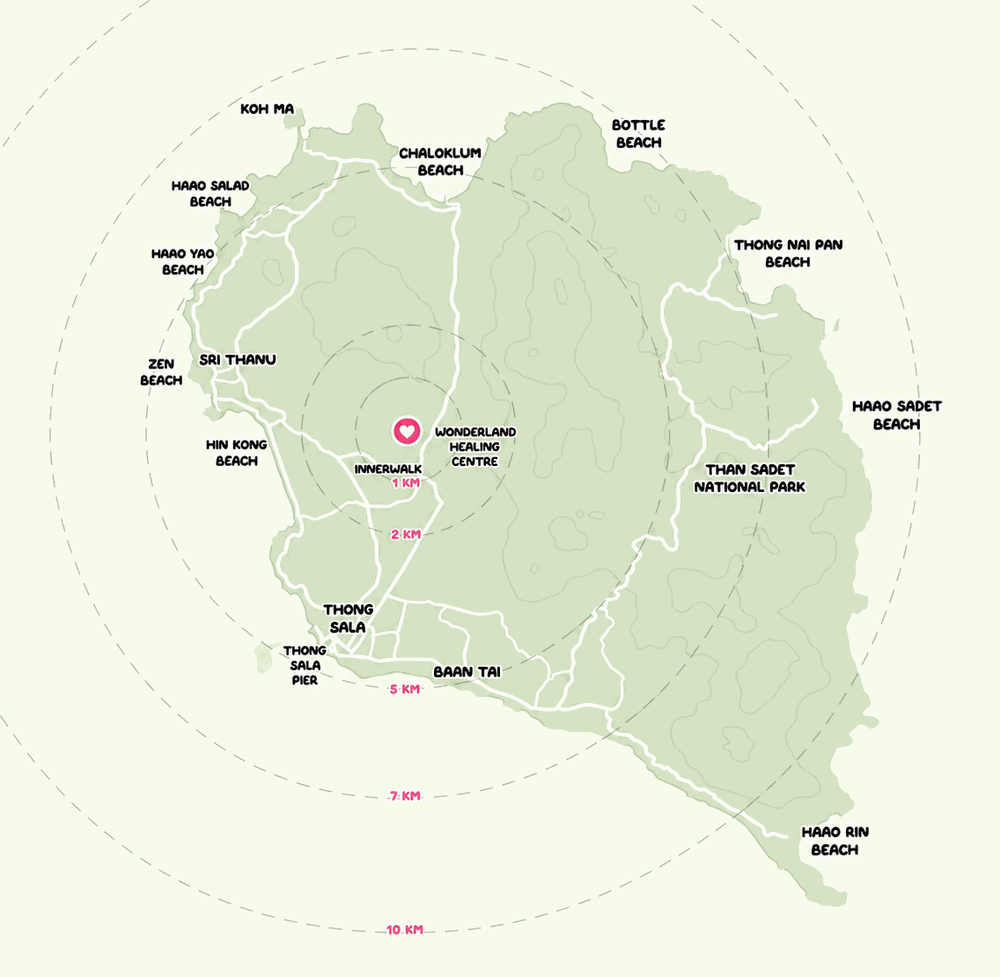
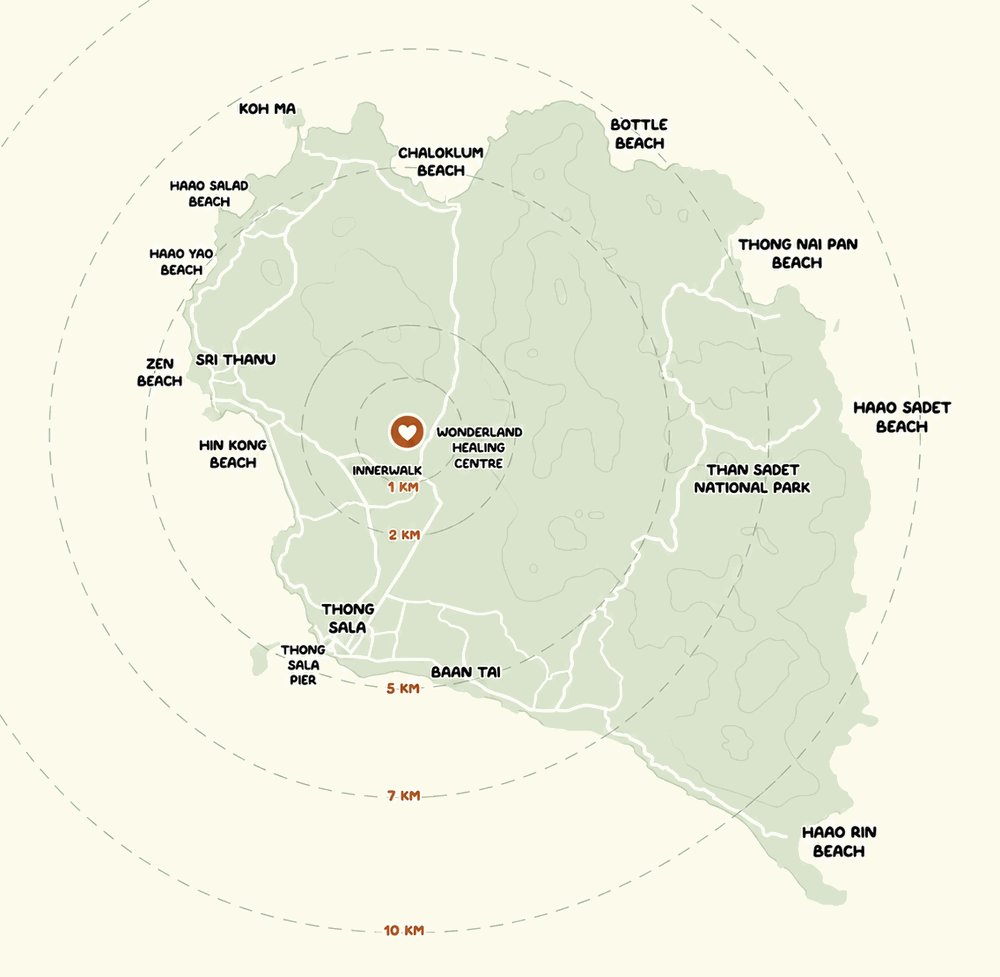
Serene Mountain: brand-coloured map, distances as an accordion, gallery to 12
- Swaps in the recoloured map (terracotta accents, cream ground that
  matches the page). Title cropped again, same line as before.
- Distances return as a collapsed accordion under the map. Rows stay in
  the rendered DOM so engines still read them; compact row spacing so it
  costs almost no height when open.
- Gallery 9 -> 12, which keeps the 3-wide grid square. Uses the tropical
  grounds photo the map displaced, plus the terrace-evening and
  kitchen-dining shots that were sitting unused in the repo.

Claude-Session: https://claude.ai/code/session_01PHDiKk9175h8mHNze8gqbZ

diff --git a/public/serene-mountain/index.html b/public/serene-mountain/index.html
@@ -164,6 +164,17 @@ p+p{margin-top:20px}
 .tbl-wrap{overflow-x:auto}
 .tbl-cap{font-size:14px;color:var(--moss);font-style:italic;margin-top:14px}
 .mapimg{border:1px solid var(--line)}
+/* distances: collapsed by default, but the rows stay in the DOM so engines read them */
+.dist{margin-top:18px;border-top:1px solid var(--line);border-bottom:1px solid var(--line)}
+.dist summary{cursor:pointer;list-style:none;display:flex;justify-content:space-between;align-items:center;gap:16px;padding:15px 2px;font-size:12px;font-weight:500;text-transform:uppercase;letter-spacing:.13em;color:var(--green)}
+.dist summary::-webkit-details-marker{display:none}
+.dist summary::after{content:"+";font-family:var(--display);font-size:22px;font-weight:300;line-height:1;color:var(--sun)}
+.dist[open] summary::after{content:"\2212"}
+.dist .tbl{margin-top:0;margin-bottom:4px}
+.tbl-compact th,.tbl-compact td{padding:6px 2px;font-size:14.5px;line-height:1.35;border-bottom:0}
+.tbl-compact tbody th{width:auto;font-weight:400;color:var(--ink)}
+.tbl-compact tr+tr th,.tbl-compact tr+tr td{border-top:1px solid rgba(217,217,197,.6)}
+.dist .tbl-cap{margin:10px 0 16px;font-size:13px}
 .maplink{margin-top:18px;font-size:14px}
 .maplink a{color:var(--green);border-bottom:1px solid var(--sage);padding-bottom:1px}
 .maplink a:hover{color:var(--sun);border-bottom-color:var(--sun)}
@@ -406,7 +417,27 @@ footer a:hover{color:var(--sun)}
 
 <section id="location">
   <div class="wrap two-col">
-    <img class="mapimg" src="/serene-mountain/images/serene-mountain-koh-phangan-map.png" alt="Map of Koh Phangan showing Serene Mountain Villas in Wok Tum, with Phaeng Waterfall, Hin Kong Beach, Sri Thanu, Thong Sala, Chaloklum Beach, Thong Nai Pan Beach and Haao Rin Beach, ringed at 1, 2, 5, 7 and 10 km" loading="lazy">
+    <div>
+      <img class="mapimg" src="/serene-mountain/images/serene-mountain-koh-phangan-map.png" alt="Map of Koh Phangan showing Serene Mountain Villas in Wok Tum, with Phaeng Waterfall, Hin Kong Beach, Sri Thanu, Thong Sala, Chaloklum Beach, Thong Nai Pan Beach and Haao Rin Beach, ringed at 1, 2, 5, 7 and 10 km" loading="lazy">
+      <details class="dist">
+        <summary>Distances from the villas</summary>
+        <table class="tbl tbl-compact">
+          <tbody>
+            <tr><th scope="row">Balance Specialty Coffee</th><td class="num">900 m</td></tr>
+            <tr><th scope="row">Phaeng Waterfall</th><td class="num">2.1 km</td></tr>
+            <tr><th scope="row">Cafe Amazon</th><td class="num">2.3 km</td></tr>
+            <tr><th scope="row">Hollystone Relax Park</th><td class="num">2.5 km</td></tr>
+            <tr><th scope="row">Hin Kong Beach</th><td class="num">3.9 km</td></tr>
+            <tr><th scope="row">Pleayleam Beach</th><td class="num">4.2 km</td></tr>
+            <tr><th scope="row">Srithanu Beach</th><td class="num">5 km</td></tr>
+            <tr><th scope="row">Thong Sala Beach</th><td class="num">5 km</td></tr>
+            <tr><th scope="row">Nai Wok Beach</th><td class="num">5 km</td></tr>
+            <tr><th scope="row">Jungle Flight Adventure Park</th><td class="num">10 km</td></tr>
+          </tbody>
+        </table>
+        <p class="tbl-cap">Distances as listed on the property's Booking.com page.</p>
+      </details>
+    </div>
     <div>
       <p class="eyebrow">Location</p>
       <h2>Where Serene Mountain Villas Is on Koh Phangan</h2>
@@ -456,6 +487,9 @@ footer a:hover{color:var(--sun)}
       <figure><img src="/serene-mountain/images/villa-terrace-seating-koh-phangan.jpg" alt="Outdoor furniture on the villa terrace at Serene Mountain Villas, Koh Phangan" loading="lazy"><figcaption>Terrace, patio and outdoor furniture</figcaption></figure>
       <figure><img src="/serene-mountain/images/villa-bedroom-view-koh-phangan.jpg" alt="Garden view from a villa bedroom at Serene Mountain Villas, Koh Phangan" loading="lazy"><figcaption>Garden views from inside the villa</figcaption></figure>
       <figure><img src="/serene-mountain/images/private-pool-night-koh-phangan-villa.jpg" alt="Private villa pool lit at night at Serene Mountain Villas, Koh Phangan" loading="lazy"><figcaption>The pool after dark</figcaption></figure>
+      <figure><img src="/serene-mountain/images/serene-mountain-tropical-grounds.jpg" alt="Tropical garden grounds at Serene Mountain Villas, Koh Phangan" loading="lazy"><figcaption>The tropical grounds the villas sit in</figcaption></figure>
+      <figure><img src="/serene-mountain/images/villa-terrace-evening-koh-phangan.jpg" alt="Villa terrace in the evening at Serene Mountain Villas, Koh Phangan" loading="lazy"><figcaption>The terrace in the evening</figcaption></figure>
+      <figure><img src="/serene-mountain/images/furnished-villa-kitchen-dining-koh-phangan.jpg" alt="Kitchen and dining area at Serene Mountain Villas, Koh Phangan" loading="lazy"><figcaption>Kitchen and separate dining area</figcaption></figure>
     </div>
   </div>
 </section>
